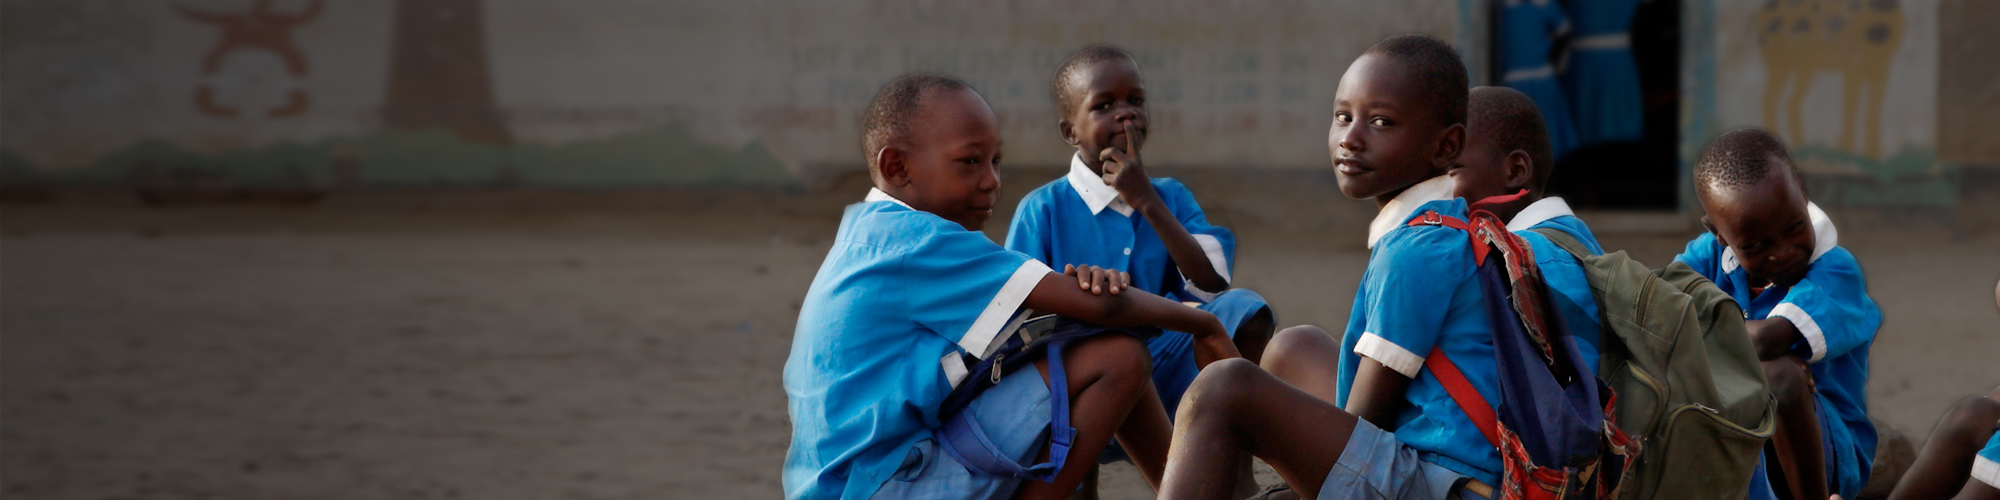
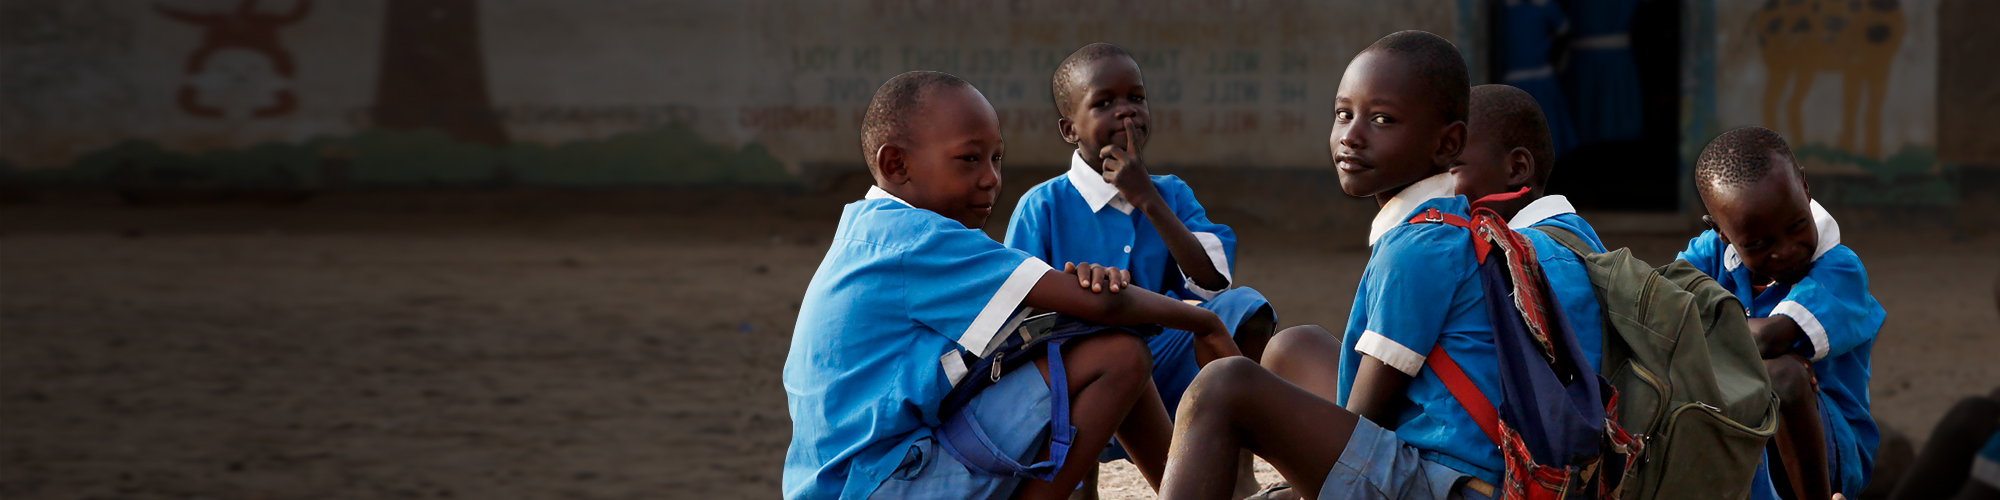
이미지 교체 및 비회원 문의하기 리스트 페이지 추가 완료.

diff --git a/assets/css/policy.css b/assets/css/policy.css
@@ -462,4 +462,19 @@ a {
   .inquiry-write .write-wrap .table-wrap .table tbody tr td.e-mail .form-group .form-control, .inquiry-write .write-wrap .table-wrap .table tbody tr td.contact .form-group .form-control {
     width: 370px; } }
 
+.inquiry-list .search-form {
+  margin-bottom: 25px; }
+.inquiry-list .btn-area {
+  margin-top: 30px;
+  text-align: right; }
+.inquiry-list .paging {
+  margin-top: 30px; }
+@media (min-width: 768px) {
+  .inquiry-list .search-form {
+    margin-bottom: 40px; }
+  .inquiry-list .btn-area {
+    margin-top: 30px; }
+    .inquiry-list .btn-area p .btn-md {
+      width: 170px; } }
+
 /*# sourceMappingURL=policy.css.map */

diff --git a/assets/css/policy.scss b/assets/css/policy.scss
@@ -204,6 +204,32 @@
     }
 }
 
+// 비회원 문의 리스트
+.inquiry-list {
+    .search-form {
+        margin-bottom: 25px;
+    }
+    .btn-area {
+        margin-top: 30px;
+        text-align: right;
+    }
+    .paging {
+        margin-top: 30px;
+    }
+    @media(min-width: $md) {
+        .search-form {
+            margin-bottom: 40px;
+        }
+        .btn-area {
+            margin-top: 30px;
+            p {
+                .btn-md {
+                    width: 170px;
+                }
+            }
+        }
+    }
+}
 
 
 

diff --git a/policy/none_member_inquiry.php b/policy/none_member_inquiry.php
@@ -1,0 +1,328 @@
+<?php require_once($_SERVER['DOCUMENT_ROOT'].'/inc/dochead.php'); ?>
+<link rel="stylesheet" href="/assets/css/sub.css">
+<link rel="stylesheet" href="/assets/css/policy.css">
+</head>
+<body class="sub policy">
+    <?php require_once($_SERVER['DOCUMENT_ROOT'].'/inc/header.php'); ?>
+    <?php require_once($_SERVER['DOCUMENT_ROOT'].'/inc/aside.php'); ?>
+    
+    <!-- page-header -->
+    <div class="page-header">
+        <div class="page-summary">
+            <h2>We bring <span>hope</span> to neighbors<br>in despair around the world</h2>
+        </div>
+        <?php require_once($_SERVER['DOCUMENT_ROOT'].'/inc/_lnb.php'); ?>
+    </div>
+    
+    <!-- page-intro -->
+    <div class="page-intro">
+        <div class="container">
+            <div class="page-title">
+                <h3>문의</h3>
+            </div>
+        </div>
+    </div>
+    
+    <!-- Content -->
+    <main id="content" class="none-member-inquiry">
+    	<div class="container">
+ 			<article class="inquiry-list">
+ 			    <div class="search-form">
+                    <form action="#">
+                        <div class="form-group">
+                            <input type="text" id="search" class="form-control" placeholder="검색어를 입력해 주세요">
+                            <label for="search" class="sr-only">검색하기</label>
+                        </div>
+                        <p class="btn-search">
+                            <button type="submit" class="btn btn-default">
+                                <i class="icon-search"></i>
+                            </button>
+                        </p>
+                    </form>
+                </div>
+                <div class="board-list-2">
+                    <ol>
+                        <li>
+                            <div class="row">
+                                <div class="d-none d-xl-block col-xl-1">
+                                    <p>123</p>
+                                </div>
+                                <div class="col-12 col-xl-8">
+                                    <h3>
+                                        <a href="/mypage/inquiry/inquiry_view.php">
+                                            문의드립니다
+                                        </a>
+                                    </h3>
+                                </div>
+                                <div class="col-12 col-xl-3">
+                                    <ul class="icon-list">
+                                        <li class="calendar">2018-05-01</li>
+                                        <li class="reply">
+                                            <p>답변대기</p>
+                                        </li>
+                                    </ul>
+                                </div>
+                            </div>
+                        </li>
+                        <li>
+                            <div class="row">
+                                <div class="d-none d-xl-block col-xl-1">
+                                    <p>123</p>
+                                </div>
+                                <div class="col-12 col-xl-8">
+                                    <h3>
+                                        <a href="/mypage/inquiry/inquiry_view.php">
+                                            문의드립니다
+                                        </a>
+                                    </h3>
+                                </div>
+                                <div class="col-12 col-xl-3">
+                                    <ul class="icon-list">
+                                        <li class="calendar">2018-05-01</li>
+                                        <li class="reply">
+                                            <p>답변대기</p>
+                                        </li>
+                                    </ul>
+                                </div>
+                            </div>
+                        </li>
+                        <li>
+                            <div class="row">
+                                <div class="d-none d-xl-block col-xl-1">
+                                    <p>123</p>
+                                </div>
+                                <div class="col-12 col-xl-8">
+                                    <h3>
+                                        <a href="/mypage/inquiry/inquiry_view.php">
+                                            문의드립니다
+                                        </a>
+                                    </h3>
+                                </div>
+                                <div class="col-12 col-xl-3">
+                                    <ul class="icon-list">
+                                        <li class="calendar">2018-05-01</li>
+                                        <li class="reply">
+                                            <p>답변대기</p>
+                                        </li>
+                                    </ul>
+                                </div>
+                            </div>
+                        </li>
+                        <li>
+                            <div class="row">
+                                <div class="d-none d-xl-block col-xl-1">
+                                    <p>123</p>
+                                </div>
+                                <div class="col-12 col-xl-8">
+                                    <h3>
+                                        <a href="/mypage/inquiry/inquiry_view.php">
+                                            문의드립니다
+                                        </a>
+                                    </h3>
+                                </div>
+                                <div class="col-12 col-xl-3">
+                                    <ul class="icon-list">
+                                        <li class="calendar">2018-05-01</li>
+                                        <li class="reply">
+                                            <p>답변대기</p>
+                                        </li>
+                                    </ul>
+                                </div>
+                            </div>
+                        </li>
+                        <li>
+                            <div class="row">
+                                <div class="d-none d-xl-block col-xl-1">
+                                    <p>123</p>
+                                </div>
+                                <div class="col-12 col-xl-8">
+                                    <h3>
+                                        <a href="/mypage/inquiry/inquiry_view.php">
+                                            문의드립니다
+                                        </a>
+                                    </h3>
+                                </div>
+                                <div class="col-12 col-xl-3">
+                                    <ul class="icon-list">
+                                        <li class="calendar">2018-05-01</li>
+                                        <li class="reply">
+                                            <p>답변대기</p>
+                                        </li>
+                                    </ul>
+                                </div>
+                            </div>
+                        </li>
+                        <li class="d-none d-xl-block">
+                            <div class="row">
+                                <div class="d-none d-xl-block col-xl-1">
+                                    <p>123</p>
+                                </div>
+                                <div class="col-12 col-xl-8">
+                                    <h3>
+                                        <a href="/mypage/inquiry/inquiry_view.php">
+                                            문의드립니다
+                                        </a>
+                                    </h3>
+                                </div>
+                                <div class="col-12 col-xl-3">
+                                    <ul class="icon-list">
+                                        <li class="calendar">2018-05-01</li>
+                                        <li class="reply">
+                                            <p>답변대기</p>
+                                        </li>
+                                    </ul>
+                                </div>
+                            </div>
+                        </li>
+                        <li class="d-none d-xl-block">
+                            <div class="row">
+                                <div class="d-none d-xl-block col-xl-1">
+                                    <p>123</p>
+                                </div>
+                                <div class="col-12 col-xl-8">
+                                    <h3>
+                                        <a href="/mypage/inquiry/inquiry_view.php">
+                                            문의드립니다
+                                        </a>
+                                    </h3>
+                                </div>
+                                <div class="col-12 col-xl-3">
+                                    <ul class="icon-list">
+                                        <li class="calendar">2018-05-01</li>
+                                        <li class="reply">
+                                            <p>답변대기</p>
+                                        </li>
+                                    </ul>
+                                </div>
+                            </div>
+                        </li>
+                        <li class="d-none d-xl-block">
+                            <div class="row">
+                                <div class="d-none d-xl-block col-xl-1">
+                                    <p>123</p>
+                                </div>
+                                <div class="col-12 col-xl-8">
+                                    <h3>
+                                        <a href="/mypage/inquiry/inquiry_view.php">
+                                            문의드립니다
+                                        </a>
+                                    </h3>
+                                </div>
+                                <div class="col-12 col-xl-3">
+                                    <ul class="icon-list">
+                                        <li class="calendar">2018-05-01</li>
+                                        <li class="reply">
+                                            <p>답변대기</p>
+                                        </li>
+                                    </ul>
+                                </div>
+                            </div>
+                        </li>
+                        <li class="d-none d-xl-block">
+                            <div class="row">
+                                <div class="d-none d-xl-block col-xl-1">
+                                    <p>123</p>
+                                </div>
+                                <div class="col-12 col-xl-8">
+                                    <h3>
+                                        <a href="/mypage/inquiry/inquiry_view.php">
+                                            문의드립니다
+                                        </a>
+                                    </h3>
+                                </div>
+                                <div class="col-12 col-xl-3">
+                                    <ul class="icon-list">
+                                        <li class="calendar">2018-05-01</li>
+                                        <li class="reply">
+                                            <p>답변대기</p>
+                                        </li>
+                                    </ul>
+                                </div>
+                            </div>
+                        </li>
+                        <li class="d-none d-xl-block">
+                            <div class="row">
+                                <div class="d-none d-xl-block col-xl-1">
+                                    <p>123</p>
+                                </div>
+                                <div class="col-12 col-xl-8">
+                                    <h3>
+                                        <a href="/mypage/inquiry/inquiry_view.php">
+                                            문의드립니다
+                                        </a>
+                                    </h3>
+                                </div>
+                                <div class="col-12 col-xl-3">
+                                    <ul class="icon-list">
+                                        <li class="calendar">2018-05-01</li>
+                                        <li class="reply">
+                                            <p>답변대기</p>
+                                        </li>
+                                    </ul>
+                                </div>
+                            </div>
+                        </li>
+                    </ol>
+                </div>
+                <div class="btn-area">
+                    <p>
+                        <a href="/mypage/inquiry/inquiry_write.php" class="btn btn-md btn-black" role="button">문의하기</a>
+                    </p>
+                </div>
+                <nav class="paging">
+                    <ol class="pagination">
+                        <li class="first">
+                            <a href="#">
+                                <i class="icon-angle-double-left">
+                                    <span class="sr-only">첫 페이지</span>
+                                </i>
+                            </a>
+                        </li>
+                        <li class="prev">
+                            <a href="#">
+                                <i class="icon-angle-left">
+                                    <span class="sr-only">이전 페이지</span>
+                                </i>
+                            </a>
+                        </li>
+                        <li class="active">
+                            <a href="#">1</a>
+                        </li>
+                        <li>
+                            <a href="#">2</a>
+                        </li>
+                        <li>
+                            <a href="#">3</a>
+                        </li>
+                        <li>
+                            <a href="#">4</a>
+                        </li>
+                        <li>
+                            <a href="#">5</a>
+                        </li>
+                        <li class="next">
+                            <a href="#">
+                                <i class="icon-angle-right">
+                                    <span class="sr-only">다음 페이지</span>
+                                </i>
+                            </a>
+                        </li>
+                        <li class="last">
+                            <a href="#">
+                                <i class="icon-angle-double-right">
+                                    <span class="sr-only">마지막 페이지</span>
+                                </i>
+                            </a>
+                        </li>
+                    </ol>	
+                </nav>
+ 			</article>
+    	</div>
+    </main>
+    
+    <?php require_once($_SERVER['DOCUMENT_ROOT'].'/inc/sitemap.php'); ?>
+    <?php require_once($_SERVER['DOCUMENT_ROOT'].'/inc/footer.php'); ?>
+    <?php require_once($_SERVER['DOCUMENT_ROOT'].'/inc/docfoot.php'); ?>
+    <script src="/assets/js/sub.js"></script>
+</body>
+</html>

diff --git a/inc/footer.php b/inc/footer.php
@@ -105,7 +105,7 @@
                         <li class="d-none d-md-block"><a href="/introduce/directions.php">위치 및 연락처</a></li>
                         <li><a href="/policy/terms.php">이용약관</a></li>
                         <li><a href="/policy/privacy.php">개인정보취급방침</a></li>
-                        <li><a href="/policy/inquiry_write.php">문의하기</a></li>
+                        <li><a href="/policy/none_member_inquiry.php">문의하기</a></li>
                     </ul>
                     <p class="copyright">
                         (C) 2018 GOODPEOPLE. ALL RIGHT RESERVED.

diff --git a/sponsor/share_store.php b/sponsor/share_store.php
@@ -22,7 +22,7 @@
             </div>
             <nav class="lnb">
                 <ul class="tab-list">
-                    <li><a href="/sponsor/partner_introduce.php">나눔파트너</a></li>
+                    <li><a href="/sponsor/share_partner.php">나눔파트너</a></li>
                     <li class="active"><a href="/sponsor/share_store.php">나눔가게</a></li>
                 </ul>
             </nav>
